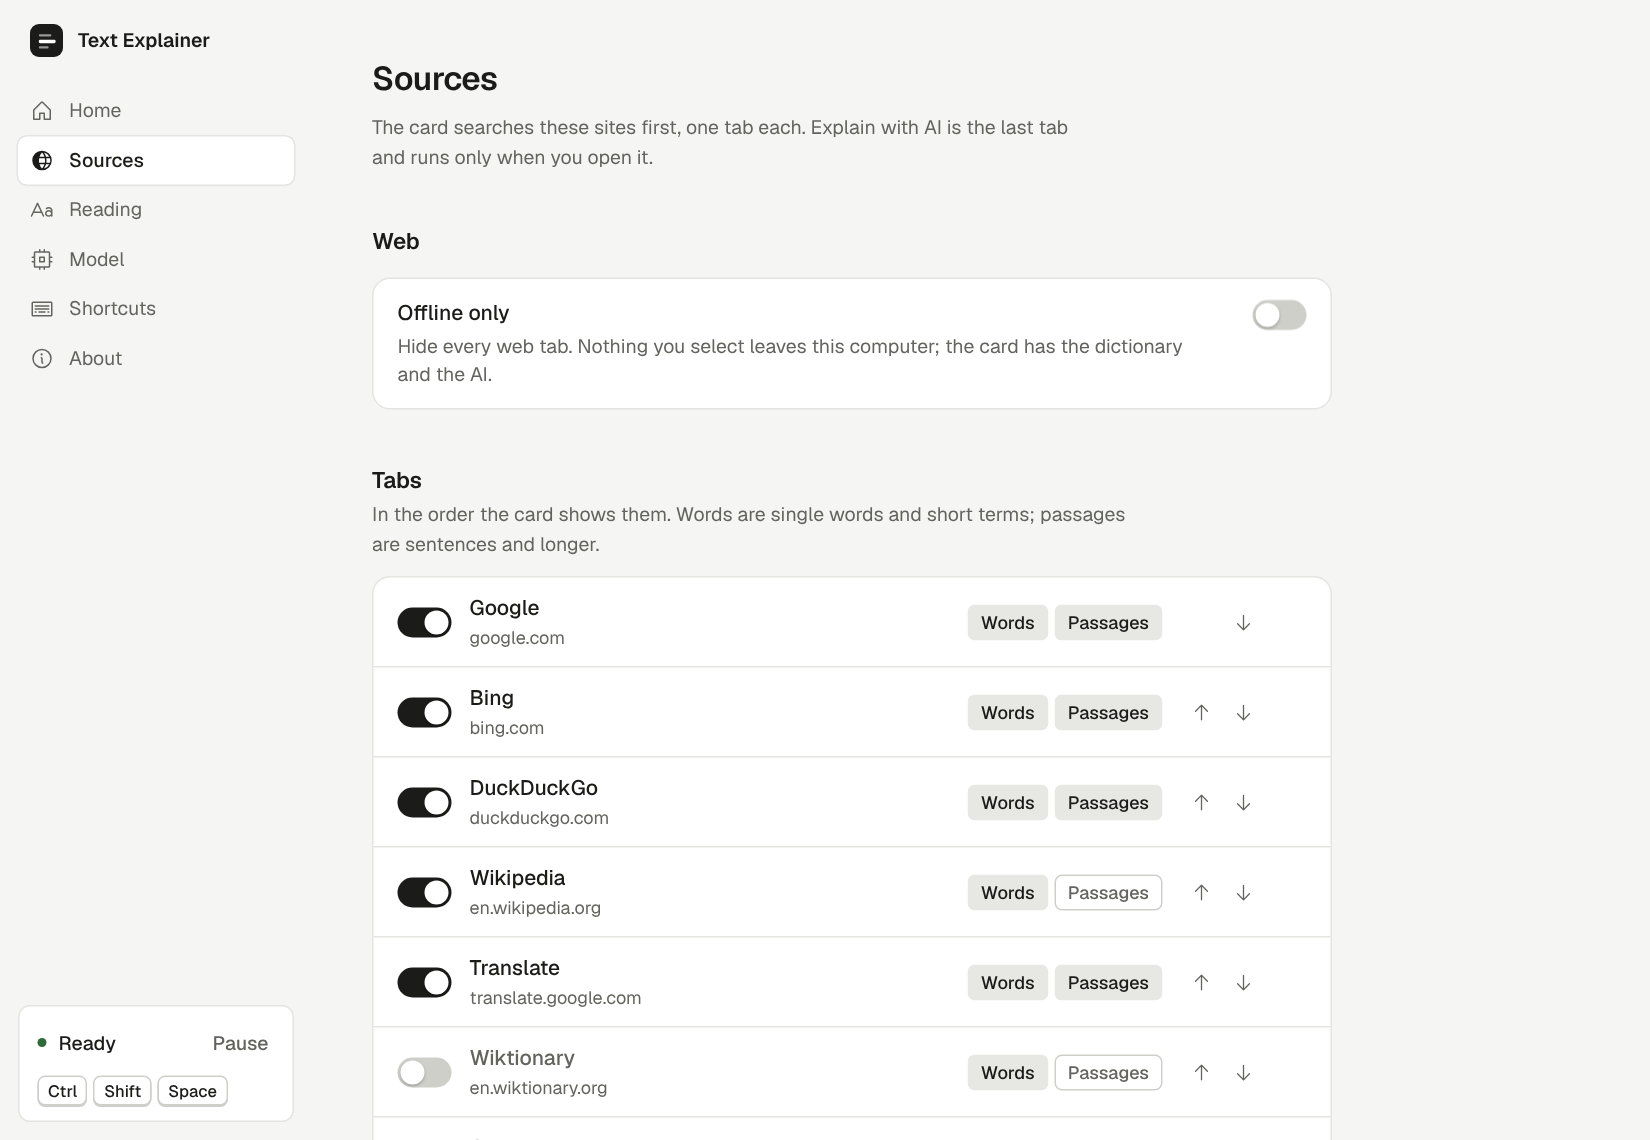
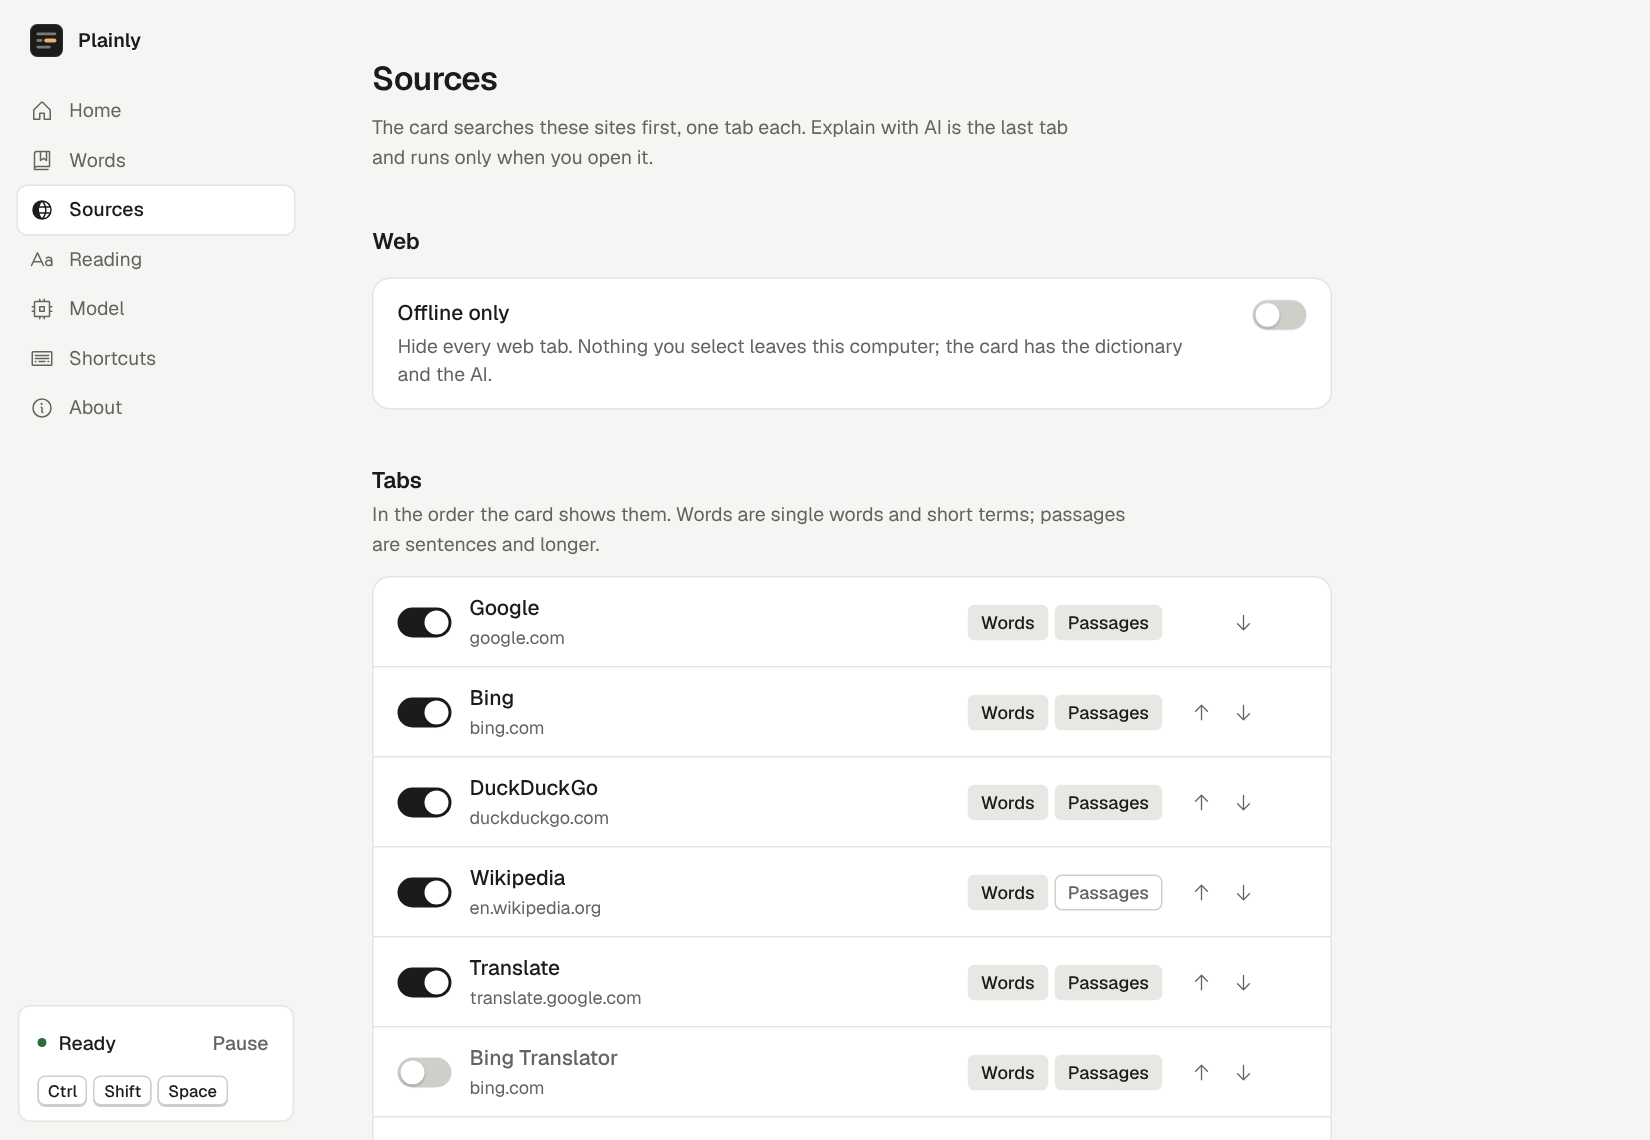
feat: rename the app to Plainly
The app, windows, tray, update dialog, installer (Plainly-x64-setup.exe), releases, README,
docs and marketing kit now say Plainly, and the screenshots show it. The identifier stays,
so settings, models and the word book carry over.

diff --git a/src/i18n/en.ts b/src/i18n/en.ts
@@ -1,7 +1,7 @@
 // Every UI string. Keys are grouped by screen.
 export const en = {
   app: {
-    name: "Text Explainer",
+    name: "Plainly",
     tagline: "Select text anywhere, get a readable version. Fully offline.",
   },
   level: {
@@ -42,7 +42,7 @@ export const en = {
     noSelectionTitle: "Nothing selected",
     noSelection: (hotkey: string) => `Select some text, then press ${hotkey}. Or copy it twice with Ctrl+C, C.`,
     noModelTitle: "Choose a model first",
-    noModel: "Text Explainer needs a model to read with. It takes a minute to set up.",
+    noModel: "Plainly needs a model to read with. It takes a minute to set up.",
     setUp: "Set up",
     errorTitle: "Couldn't explain this",
     details: "Details",
@@ -161,7 +161,7 @@ export const en = {
     promptCustom: "Custom",
     promptDefault: "Built-in",
     unload: "Free memory now",
-    engineMissing: "The model engine is missing. Reinstall Text Explainer.",
+    engineMissing: "The model engine is missing. Reinstall Plainly.",
   },
   reading: {
     title: "Reading",

diff --git a/index.html b/index.html
@@ -3,7 +3,7 @@
   <head>
     <meta charset="UTF-8" />
     <meta name="viewport" content="width=device-width, initial-scale=1.0" />
-    <title>Text Explainer</title>
+    <title>Plainly</title>
     <script type="module" src="/src/lib/theme-boot.ts"></script>
   </head>
   <body>

diff --git a/popup.html b/popup.html
@@ -3,7 +3,7 @@
   <head>
     <meta charset="UTF-8" />
     <meta name="viewport" content="width=device-width, initial-scale=1.0" />
-    <title>Text Explainer</title>
+    <title>Plainly</title>
     <script type="module" src="/src/lib/theme-boot.ts"></script>
   </head>
   <body>

diff --git a/src-tauri/src/lib.rs b/src-tauri/src/lib.rs
@@ -1,4 +1,4 @@
-//! The Text Explainer desktop app: tray, global hotkey and double Ctrl+C, the reading
+//! The Plainly desktop app: tray, global hotkey and double Ctrl+C, the reading
 //! card, settings and model management.
 
 mod commands;
@@ -125,7 +125,7 @@ fn setup(app: &mut tauri::App) -> Result<(), Box<dyn std::error::Error>> {
         engine_found = state.paths.llama_server.is_file(),
         dictionary = state.dictionary.lock().is_ok_and(|d| d.is_some()),
         hotkey_registered = state.hotkey.lock().is_ok_and(|h| h.is_some()),
-        "Text Explainer started"
+        "Plainly started"
     );
     updater::init(&handle);
     Ok(())
@@ -230,5 +230,5 @@ pub fn run() {
             _ => {}
         })
         .run(tauri::generate_context!())
-        .expect("error while running Text Explainer");
+        .expect("error while running Plainly");
 }

diff --git a/src-tauri/src/tray.rs b/src-tauri/src/tray.rs
@@ -19,7 +19,7 @@ fn menu(app: &AppHandle) -> tauri::Result<Menu<tauri::Wry>> {
         true,
         None::<&str>,
     )?;
-    let quit = MenuItem::with_id(app, "quit", "Quit Text Explainer", true, None::<&str>)?;
+    let quit = MenuItem::with_id(app, "quit", "Quit Plainly", true, None::<&str>)?;
     Menu::with_items(
         app,
         &[
@@ -35,12 +35,9 @@ fn menu(app: &AppHandle) -> tauri::Result<Menu<tauri::Wry>> {
 fn tooltip(app: &AppHandle) -> String {
     let state = app.state::<AppState>();
     if state.paused.load(Ordering::SeqCst) {
-        "Text Explainer (paused)".into()
+        "Plainly (paused)".into()
     } else {
-        format!(
-            "Text Explainer: select text, press {}",
-            state.settings().hotkey
-        )
+        format!("Plainly: select text, press {}", state.settings().hotkey)
     }
 }
 

diff --git a/src-tauri/src/updater.rs b/src-tauri/src/updater.rs
@@ -95,7 +95,7 @@ async fn check_once(app: &AppHandle) -> Result<Status, String> {
         asker
             .dialog()
             .message(format!(
-                "Text Explainer {question} is ready. Install it now? The app closes, updates \
+                "Plainly {question} is ready. Install it now? The app closes, updates \
                  and opens again."
             ))
             .title("Update available")

diff --git a/crates/core/src/engine/mod.rs b/crates/core/src/engine/mod.rs
@@ -14,7 +14,7 @@ use crate::prompt::Message;
 
 #[derive(Debug, thiserror::Error)]
 pub enum EngineError {
-    #[error("the bundled model engine is missing ({0}); reinstall Text Explainer")]
+    #[error("the bundled model engine is missing ({0}); reinstall Plainly")]
     MissingEngine(PathBuf),
     #[error("the model file is missing ({0}); choose or download a model in Settings")]
     MissingModel(PathBuf),

diff --git a/crates/core/src/download.rs b/crates/core/src/download.rs
@@ -101,7 +101,7 @@ pub async fn download(
     let client = reqwest::Client::builder()
         .connect_timeout(Duration::from_secs(20))
         .read_timeout(Duration::from_secs(60))
-        .user_agent(concat!("TextExplainer/", env!("CARGO_PKG_VERSION")))
+        .user_agent(concat!("Plainly/", env!("CARGO_PKG_VERSION")))
         .build()
         .map_err(|e| DownloadError::Network(e.to_string()))?;
 

diff --git a/crates/core/src/lib.rs b/crates/core/src/lib.rs
@@ -1,4 +1,4 @@
-//! Text Explainer core.
+//! Plainly core.
 //!
 //! Everything that isn't Windows UI lives here so it can be tested on any platform:
 //! text cleanup and classification, readability scores, the meaning and language guards,

diff --git a/docs/marketing/facebook.md b/docs/marketing/facebook.md
@@ -6,7 +6,7 @@ not code-signed), so the posts call it a preview and invite feedback. Change tha
 once the first numbered release is out.
 
 Download link used below:
-https://github.com/omikhan4901/text_explainer/releases/download/latest-build/TextExplainer-x64-setup.exe
+https://github.com/omikhan4901/text_explainer/releases/download/latest-build/Plainly-x64-setup.exe
 
 Screenshots are in `docs/screenshots/`. They show the real interface running against the
 app's built-in demo data (the sample text and its translation are demo content, not a
@@ -23,7 +23,7 @@ Suggested order: post 1 (launch), then one feature post every two or three days.
 > I've been building something for everyone who has ever read a sentence three times and
 > still not understood it.
 >
-> **Text Explainer** is a small Windows app. Select any hard text, in any app (a PDF, a
+> **Plainly** is a small Windows app. Select any hard text, in any app (a PDF, a
 > Word file, an email, a website), press Ctrl+Shift+Space, and a card opens right next to
 > it: web searches, a dictionary, and "Explain with AI", which rewrites the text in plain
 > language.
@@ -32,7 +32,7 @@ Suggested order: post 1 (launch), then one feature post every two or three days.
 > graphics card, and what you send it never leaves your machine.
 >
 > It's an early preview, free to try:
-> https://github.com/omikhan4901/text_explainer/releases/download/latest-build/TextExplainer-x64-setup.exe
+> https://github.com/omikhan4901/text_explainer/releases/download/latest-build/Plainly-x64-setup.exe
 >
 > Windows will warn you because the installer isn't signed yet: click "More info", then
 > "Run anyway". I'd love to hear what you think, especially what breaks.
@@ -43,7 +43,7 @@ Suggested order: post 1 (launch), then one feature post every two or three days.
 
 **Image:** `feature-translate.png` (your text above its Bangla translation)
 
-> New in Text Explainer: translate without sending your text to anyone.
+> New in Plainly: translate without sending your text to anyone.
 >
 > The AI tab now has two buttons: Explain and Translate. Translation runs on your
 > computer, so contracts, medical letters and private messages stay private.
@@ -65,7 +65,7 @@ Suggested order: post 1 (launch), then one feature post every two or three days.
 
 **Image:** `feature-words.png` (the Words page with saved words)
 
-> Students: Text Explainer now keeps the words you look up.
+> Students: Plainly now keeps the words you look up.
 >
 > Press the bookmark on the card to save a word with its meaning. Find it again on the
 > Words page, hear it read aloud, and export your list to Excel or straight into Anki for
@@ -83,7 +83,7 @@ Suggested order: post 1 (launch), then one feature post every two or three days.
 
 > Sometimes the word isn't on your screen: you heard it in a lecture or a meeting.
 >
-> Press the Text Explainer shortcut with nothing selected (or pick "Look up" in the tray)
+> Press the Plainly shortcut with nothing selected (or pick "Look up" in the tray)
 > and type it. The same card opens with searches, the dictionary and the AI.
 >
 > Free preview for Windows: (link)
@@ -96,7 +96,7 @@ Suggested order: post 1 (launch), then one feature post every two or three days.
 
 > A question I get: "Does it read everything I select?"
 >
-> No. Text Explainer only reads a selection when you press its shortcut or copy the same
+> No. Plainly only reads a selection when you press its shortcut or copy the same
 > text twice. And there's a list of apps it never reads from at all: password managers are
 > on it from the start, and you can add any app.
 >
@@ -113,7 +113,7 @@ Suggested order: post 1 (launch), then one feature post every two or three days.
 
 > কোনো বাক্য তিনবার পড়েও বুঝতে পারেননি? এমন সবার জন্য একটা ছোট অ্যাপ বানাচ্ছি।
 >
-> **Text Explainer** একটি Windows অ্যাপ। যেকোনো অ্যাপে (PDF, Word, ইমেইল, ওয়েবসাইট)
+> **Plainly** একটি Windows অ্যাপ। যেকোনো অ্যাপে (PDF, Word, ইমেইল, ওয়েবসাইট)
 > কঠিন লেখা সিলেক্ট করে Ctrl+Shift+Space চাপুন: পাশেই একটা কার্ড খুলবে। সেখানে ওয়েব
 > সার্চ, ডিকশনারি, আর AI, যা লেখাটা সহজ ভাষায় বুঝিয়ে দেয় বা বাংলায় অনুবাদ করে দেয়।
 >

diff --git a/README.md b/README.md
@@ -2,14 +2,14 @@
 
 <img src="docs/logo.png" alt="" width="88">
 
-# Text Explainer
+# Plainly
 
 **Select hard text anywhere on Windows. Read it in plain words, right next to it.**
 
 Web searches, a dictionary and a private AI in one small card.<br>
 For contracts, papers, letters and any word you don't know, in every app, not only the browser.
 
-### [Download for Windows](https://github.com/omikhan4901/text_explainer/releases/download/latest-build/TextExplainer-x64-setup.exe)
+### [Download for Windows](https://github.com/omikhan4901/text_explainer/releases/download/latest-build/Plainly-x64-setup.exe)
 
 <sub>Free preview · Windows 10 and 11, 64-bit · [all builds](https://github.com/omikhan4901/text_explainer/releases)</sub>
 
@@ -90,7 +90,7 @@ Save a word from the card, hear it read aloud, and export your list to Excel or 
 
 ## Install
 
-1. [Download the installer](https://github.com/omikhan4901/text_explainer/releases/download/latest-build/TextExplainer-x64-setup.exe)
+1. [Download the installer](https://github.com/omikhan4901/text_explainer/releases/download/latest-build/Plainly-x64-setup.exe)
    and run it. It isn't code-signed yet, so Windows shows a warning: choose
    **More info**, then **Run anyway**.
 2. First run asks one question (search the web first, or offline only) and helps you pick

diff --git a/docs/SOURCES_PLAN.md b/docs/SOURCES_PLAN.md
@@ -1,6 +1,6 @@
 # Sources, translation and Definer parity: plan
 
-Decided by the owner on 15 October 2026: Text Explainer does everything
+Decided by the owner on 15 October 2026: Plainly does everything
 [Definer](https://chromewebstore.google.com/detail/mkhlnnpfjieohiohgbphcnfdkmniofac) does,
 plus the local AI that Definer can't do. **It stays desktop software, never a browser
 extension.** Everything here is built into the app and works in browsers the same way it
@@ -18,7 +18,7 @@ tabbed card, page sources in a child web view, the Sources settings page, the Lo
 
 ### What Definer does (parity)
 
-| Definer | In Text Explainer |
+| Definer | In Plainly |
 |---|---|
 | Bubble next to the selection | The reading card, already placed by the selection's rectangle in any app, browsers included |
 | Several sources in one bubble | The card gets tabs: Explain, Translate, Dictionary, then web sources |
